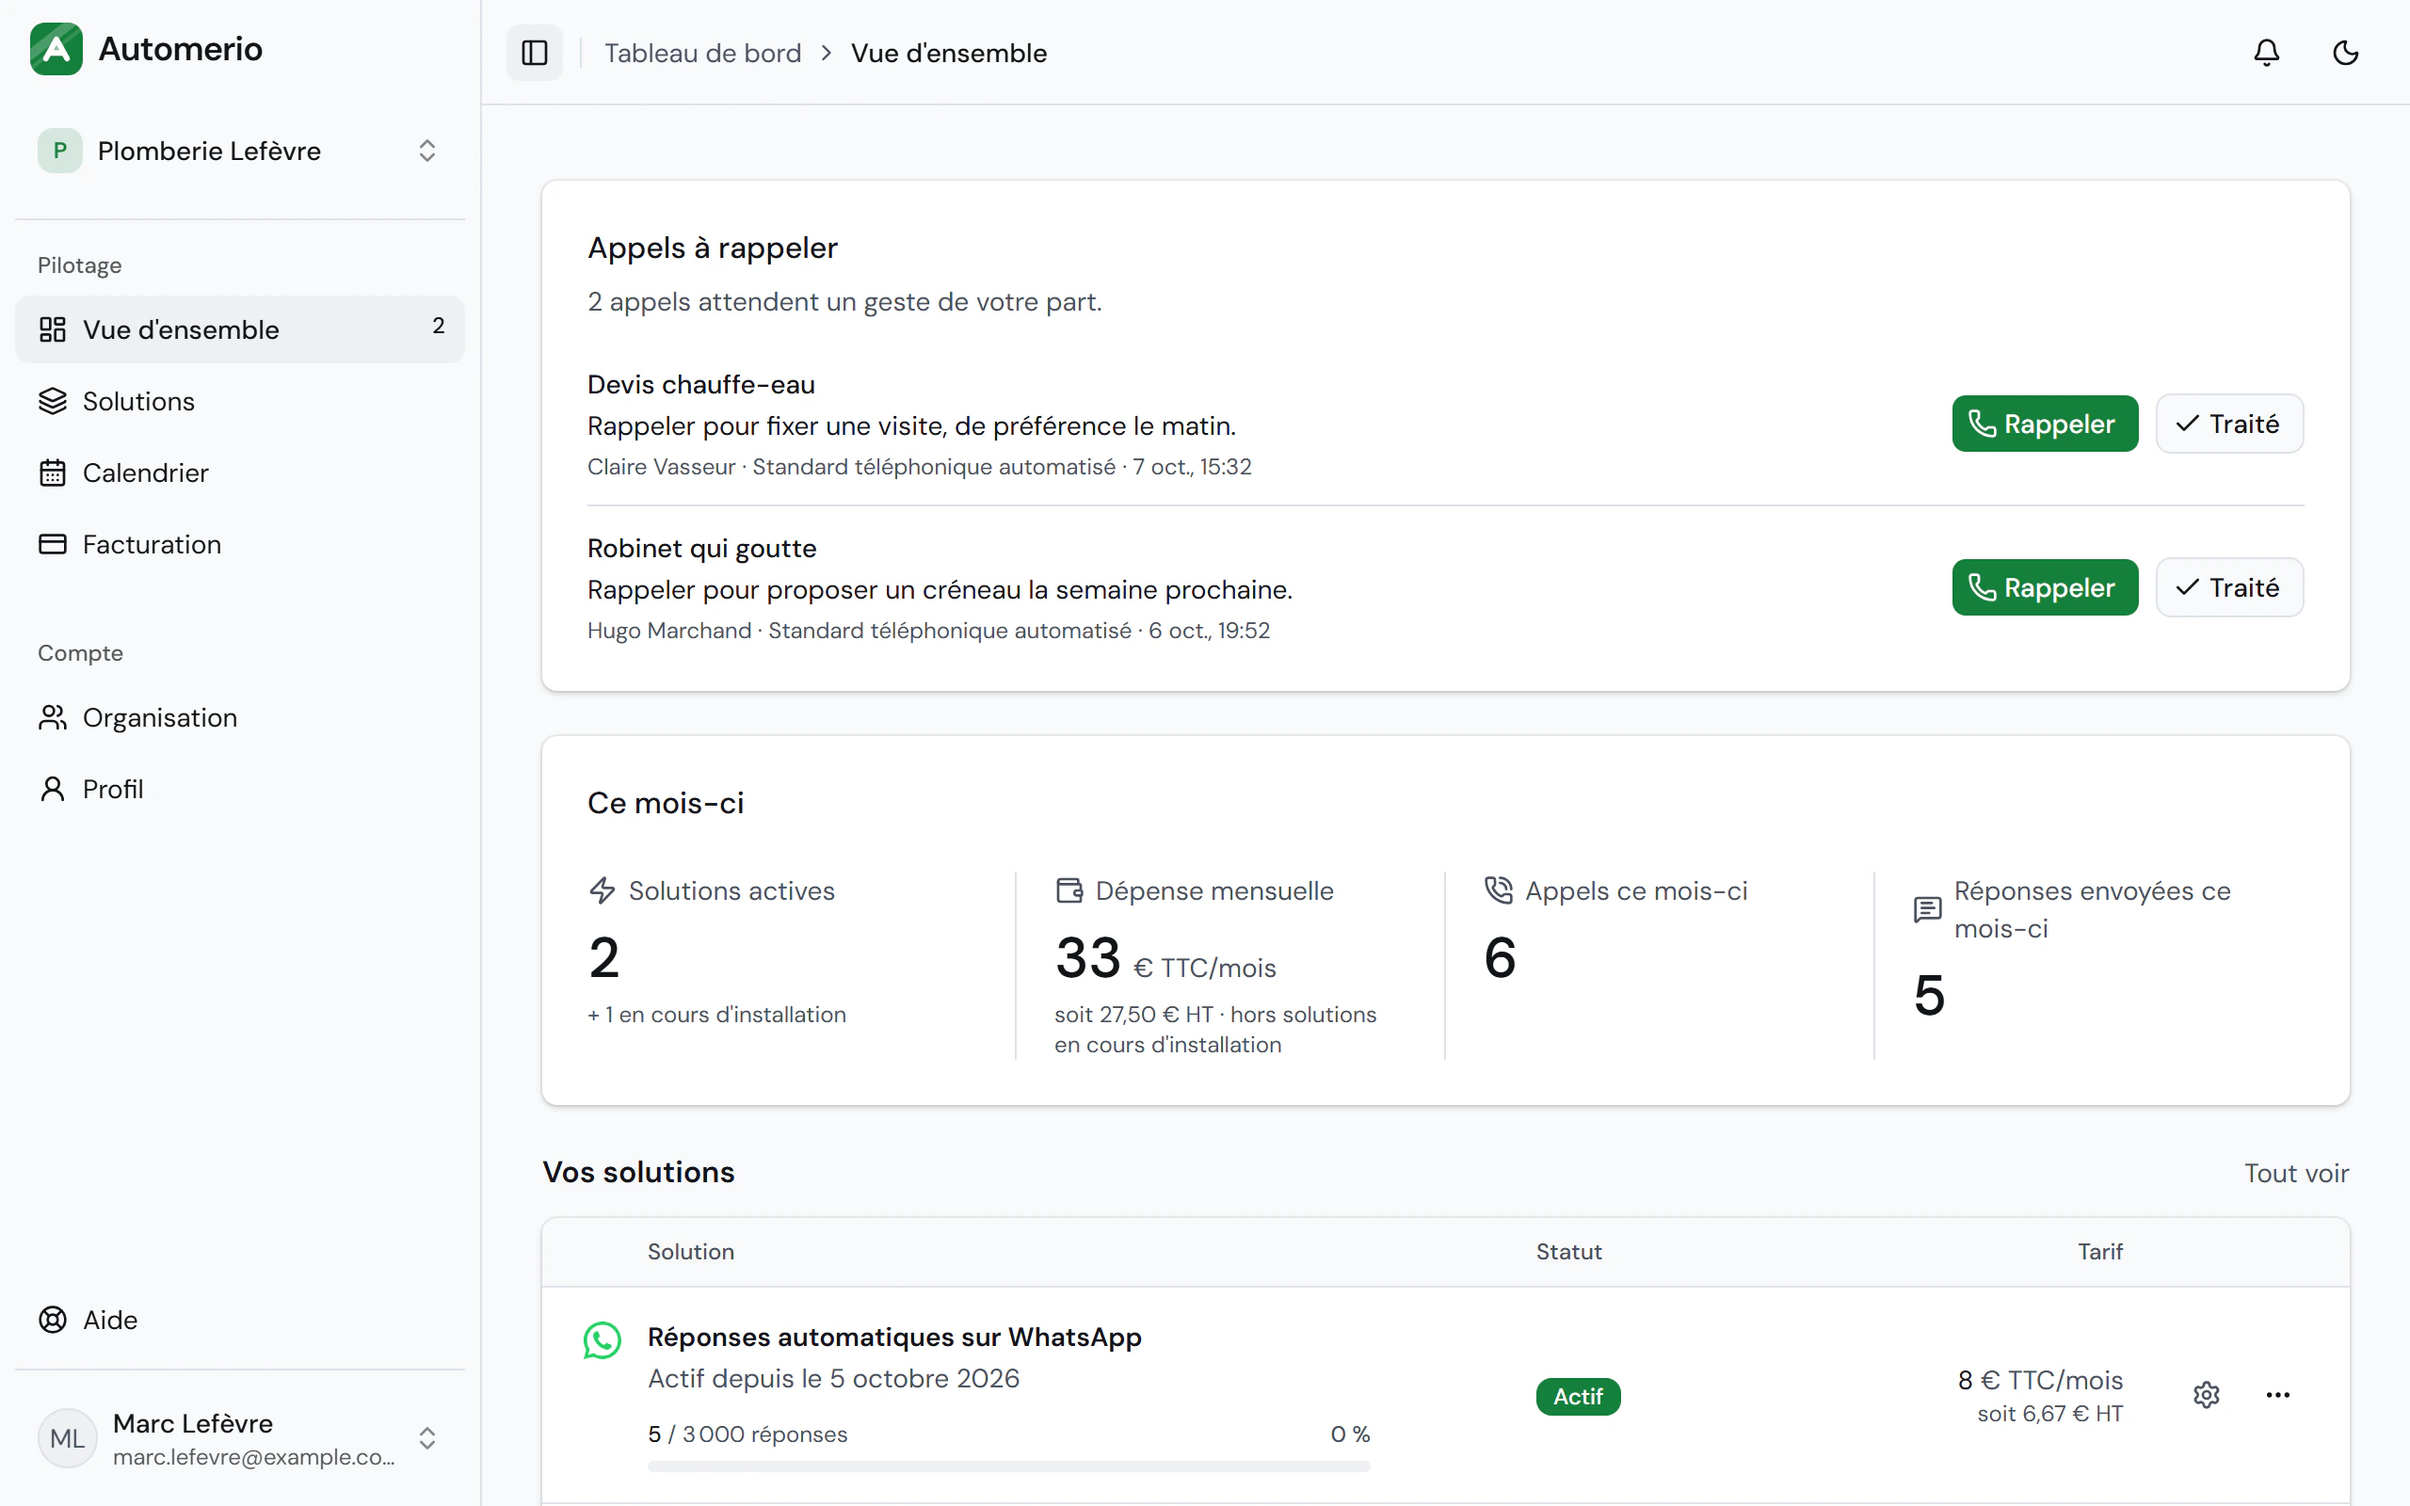
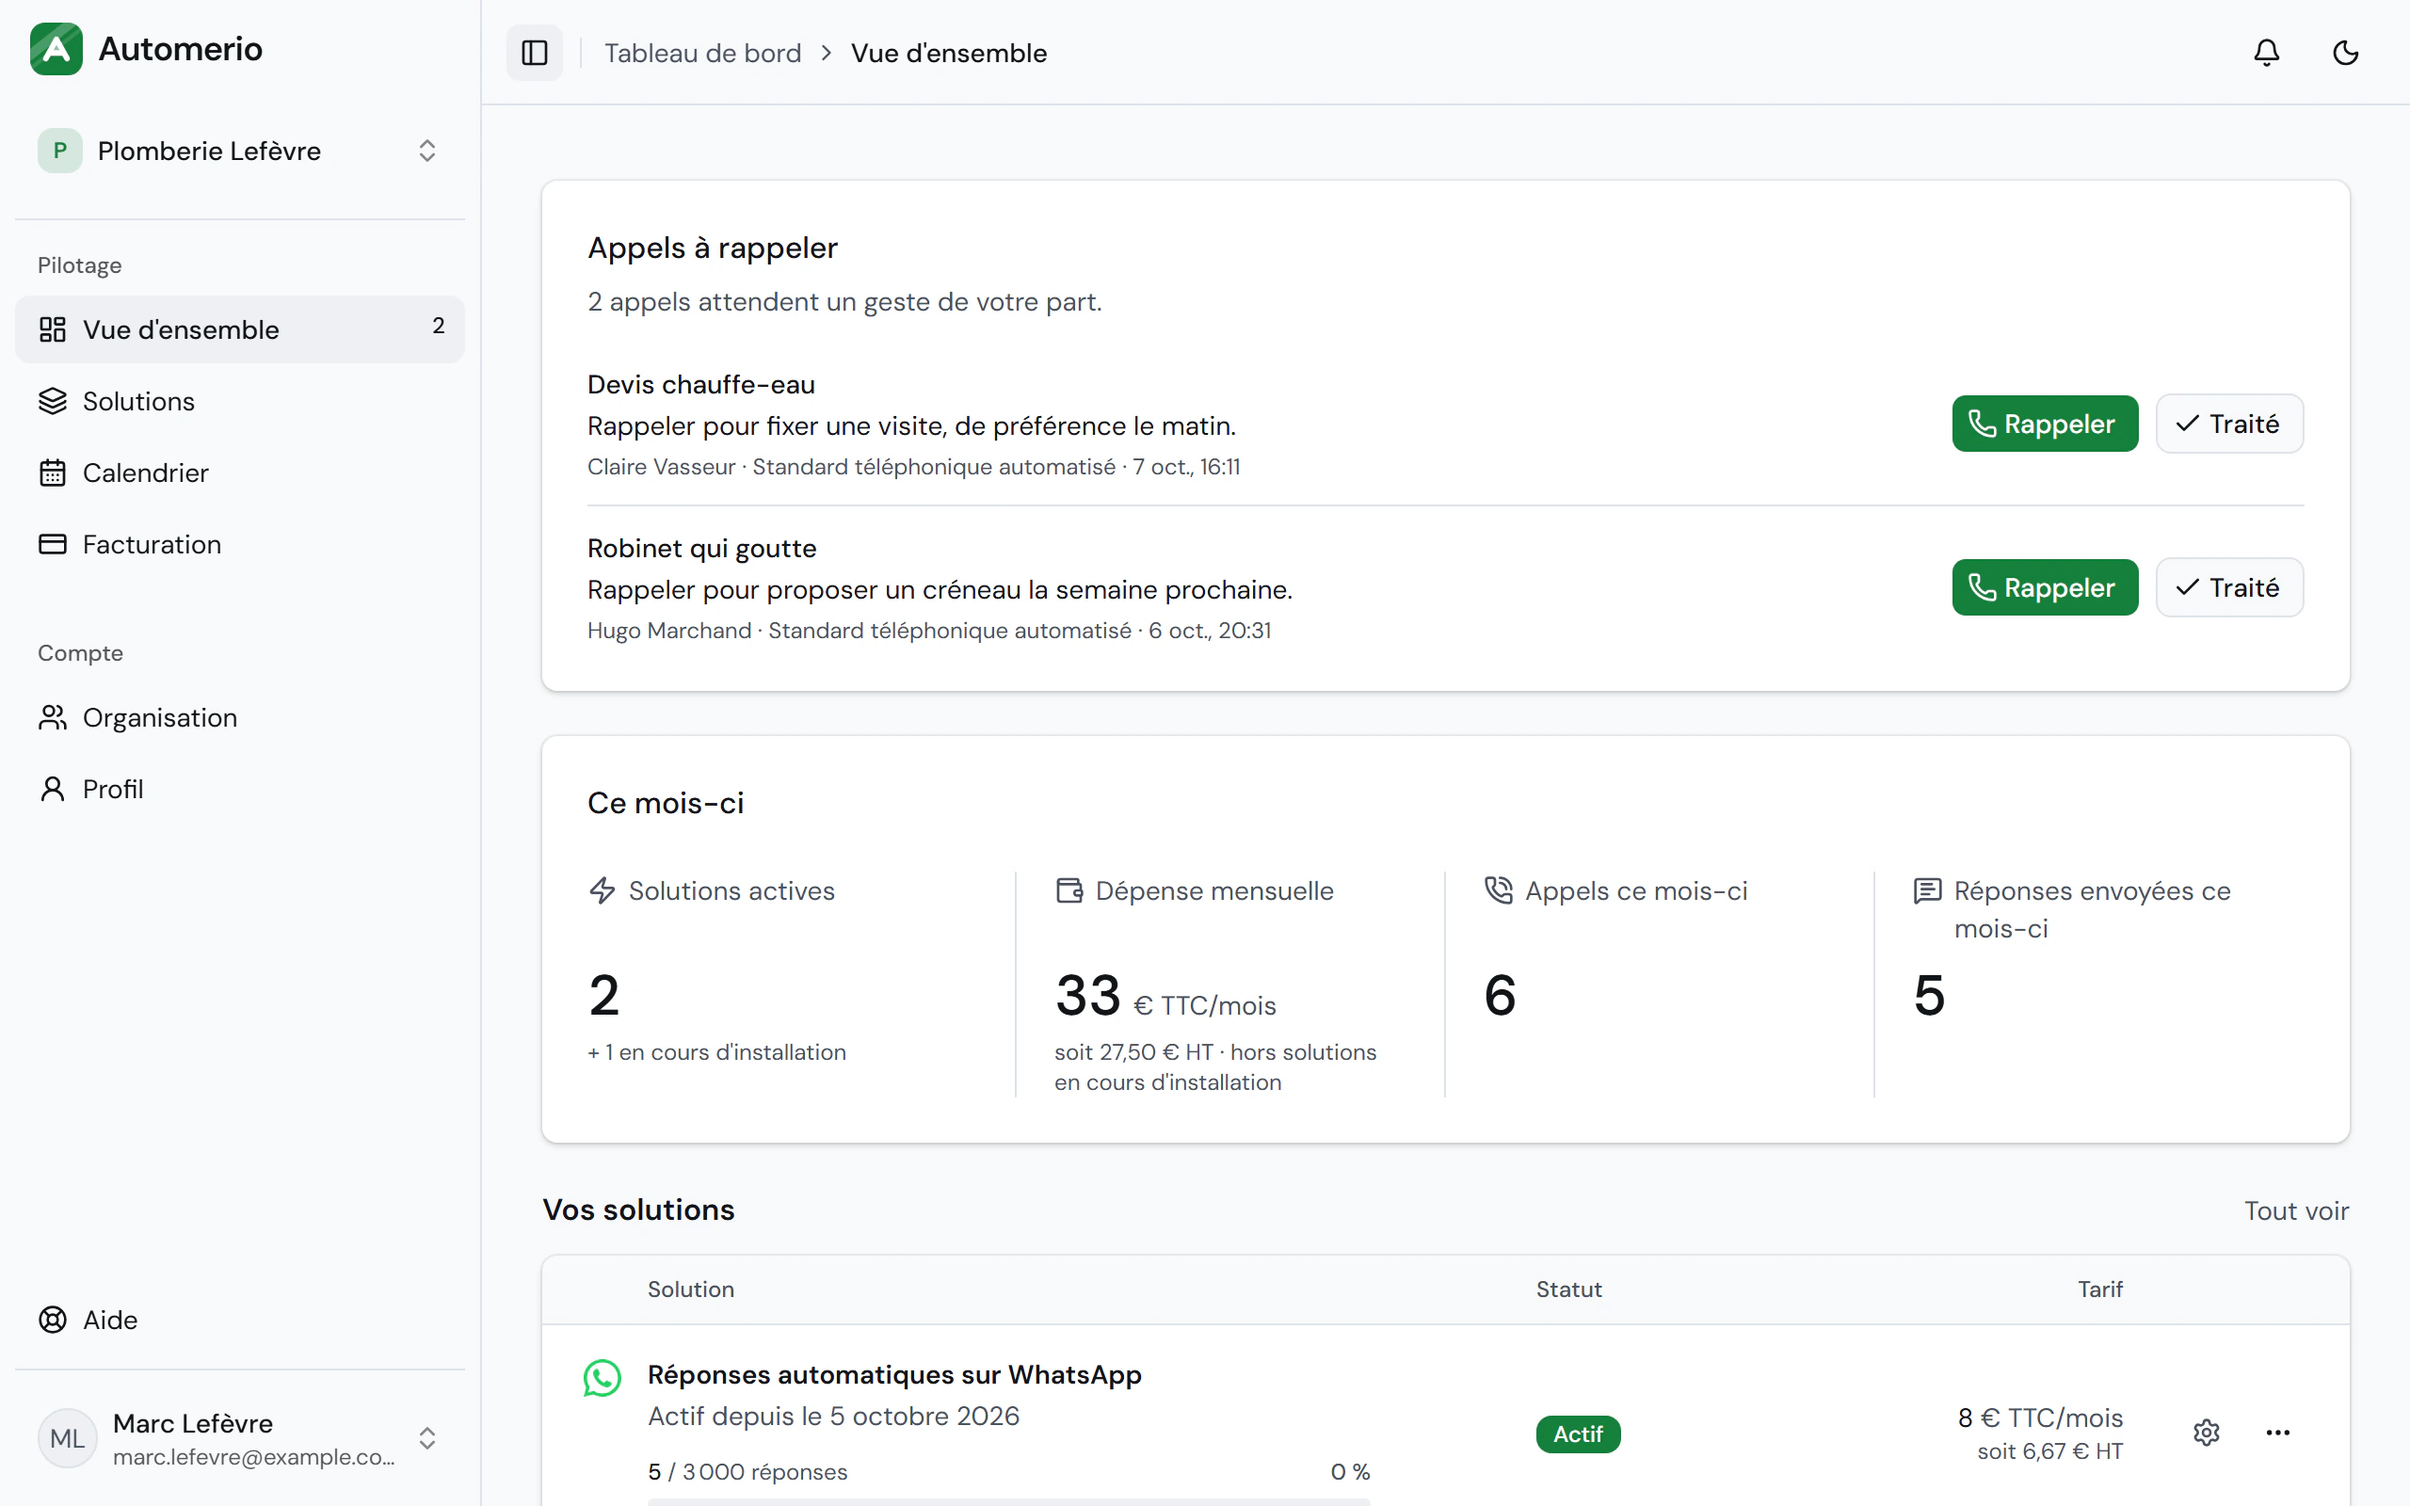
Hero : capture à jour, chiffres de « Ce mois-ci » alignés
- StatStrip : libellés et valeurs sur deux rangées partagées (sous-grille) ;
  « Réponses envoyées ce mois-ci », sur deux lignes, n'abaisse plus son
  chiffre : les quatre valeurs sont à la même hauteur.
- Captures de l'accueil refaites sur un build de production : DM Sans,
  fil d'Ariane dans la barre du haut, séparateurs de la barre latérale.

Claude-Session: https://claude.ai/code/session_0125LzNRnjENvHdTxbnwep3y

diff --git a/src/components/stat-strip.tsx b/src/components/stat-strip.tsx
@@ -27,14 +27,16 @@ export function StatStrip({ title, stats }: { title?: string; stats: Stat[] }) {
         </CardHeader>
       )}
       <CardContent>
-        <dl className="grid grid-cols-1 divide-y divide-border sm:grid-flow-col sm:auto-cols-fr sm:divide-x sm:divide-y-0">
+        {/* Deux rangées partagées (sous-grille) : un libellé sur deux lignes
+            n'abaisse plus sa valeur, tous les chiffres restent alignés. */}
+        <dl className="grid grid-cols-1 divide-y divide-border sm:grid-flow-col sm:auto-cols-fr sm:grid-rows-[auto_auto] sm:divide-x sm:divide-y-0">
           {stats.map((stat) => (
             <div
               key={stat.label}
-              className="py-3 first:pt-0 last:pb-0 sm:px-5 sm:py-0 sm:first:pl-0 sm:last:pr-0"
+              className="py-3 first:pt-0 last:pb-0 sm:row-span-2 sm:grid sm:grid-rows-subgrid sm:px-5 sm:py-0 sm:first:pl-0 sm:last:pr-0"
             >
-              <dt className="flex items-center gap-1.5 text-sm text-muted-foreground">
-                <stat.icon className="size-4 shrink-0" aria-hidden="true" />
+              <dt className="flex items-start gap-1.5 text-sm text-muted-foreground">
+                <stat.icon className="mt-0.5 size-4 shrink-0" aria-hidden="true" />
                 {stat.label}
               </dt>
               <dd className="mt-2">
